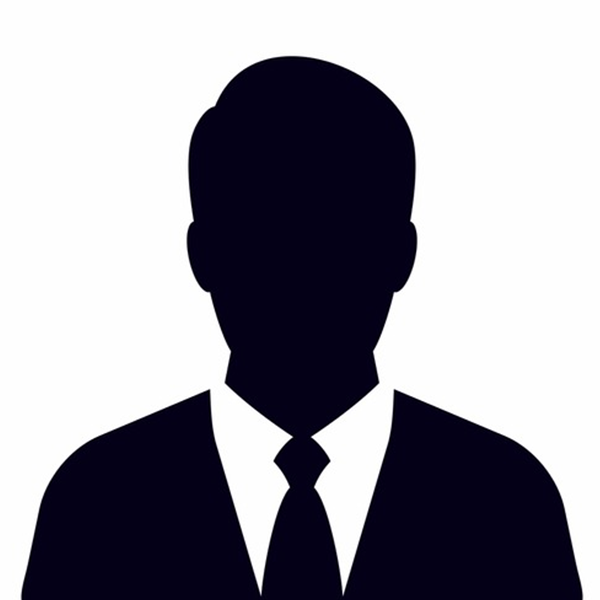
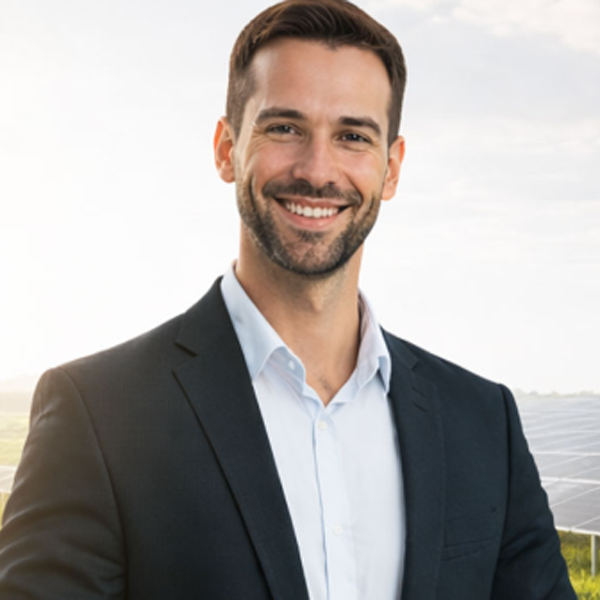
updations

diff --git a/public/css/sass/developer/_anas.scss b/public/css/sass/developer/_anas.scss
@@ -8,7 +8,8 @@ html,body {
 }
 
 h3 {
-    font-weight: 500;
+    font-size: 25px;
+    font-weight: 700;
     color: $color-primary;
 }
 
@@ -71,10 +72,9 @@ margin-bottom: 40px;
     text-align: center;
     background-color: #ffffff;
     border-radius: 15px;
-    padding: 20px;
+    padding: 20px 10px;
     box-shadow: 0 4px 10px rgba(0, 0, 0, 0.1);
     transition: transform 0.3s ease-in-out;
-    height: 100%;
     margin-top: 15px;
 }
 
@@ -86,7 +86,6 @@ margin-bottom: 40px;
     font-size: 35px;
     font-weight: 800;
     color: #3e3e3e;
-    margin-bottom: 10px;
 }
 
 .counter p {
@@ -170,6 +169,83 @@ margin-bottom: 40px;
     }
 }
 
+//////////////////////// HOME INDUSTRIES CSS ////////////////////////
+
+.hm-industries-wrapper {
+    background-image: url('../img/industry-bg-img.jpg');
+    background-position: center;
+    background-repeat: no-repeat;
+    background-size: cover;
+    background-blend-mode: overlay;
+    background-color: #ffffffb0;
+}
+
+
+
+.home-industry .item {
+    position: relative;
+    height: 400px; /* Fixed height for consistency */
+    border-radius: 30px; /* Rounded corners for a more unique card shape */
+    background-size: cover;
+    background-position: center;
+    transition: transform 0.3s ease-in-out, box-shadow 0.3s ease; /* Smooth scale and shadow effects */
+    overflow: hidden;
+}
+
+/* Specific background images for each item */
+.home-industry .item.industry-box-1 {
+    background-image: url('../img/industry1-img.jpg');
+}
+
+.home-industry .item.industry-box-2 {
+    background-image: url('../img/industry2-img.jpg');
+}
+
+.home-industry .item.industry-box-3 {
+    background-image: url('../img/industry3-img.jpg');
+}
+
+.home-industry .item:hover {
+   
+    box-shadow: 0 25px 60px rgba(0, 0, 0, 0.3); /* Enhance the shadow on hover */
+}
+
+.home-industry .item .txt-box {
+    position: absolute;
+    bottom: 40px;
+    left: 30px;
+    right: 30px;
+    background-color: rgba(39, 66, 145, 0.8);
+    padding: 26px 20px;
+    border-radius: 15px;
+    opacity: 1;
+    
+   
+}
+
+
+
+.home-industry .item .txt-box h3 {
+    font-size: 25px;
+    font-weight: 600;
+    line-height: 1.3;
+    text-transform: uppercase;
+    color: #fff;
+    margin-bottom: 0;
+    text-align: center;
+    
+}
+
+/* Optional: Add a hover animation for better interactivity */
+.home-industry .item:hover .txt-box h3 {
+    color: #f8f8f8; /* Slight text color change on hover */
+}
+
+.home-industry .owl-carousel .owl-nav, .home-industry .owl-carousel .owl-dots {
+    display: none; /* Hide default navigation */
+}
+
+
 //////////////////////// HOME PRODUCTS CSS ////////////////////////
 
 .hm-product-wrap  {
@@ -188,6 +264,7 @@ margin-bottom: 40px;
 
     h3 {
         font-size: 25px;
+        font-weight: 500;
     }
 }
 
@@ -368,6 +445,7 @@ margin-bottom: 40px;
 .test-name-box {
     display: flex;
     align-items: center;
+
 }
 
 
@@ -396,6 +474,7 @@ margin-bottom: 40px;
 .checked {
   color: orange;
 }
+
 
 ///////////////////////////////////////////////////// ABOUT US PAGE /////////////////////////////////////////////////
 

diff --git a/public/css/style.css b/public/css/style.css
@@ -986,7 +986,8 @@ html, body {
 }
 
 h3 {
-  font-weight: 500;
+  font-size: 25px;
+  font-weight: 700;
   color: #274291;
 }
 
@@ -1041,10 +1042,9 @@ h4 {
   text-align: center;
   background-color: #ffffff;
   border-radius: 15px;
-  padding: 20px;
+  padding: 20px 10px;
   box-shadow: 0 4px 10px rgba(0, 0, 0, 0.1);
   transition: transform 0.3s ease-in-out;
-  height: 100%;
   margin-top: 15px;
 }
 
@@ -1056,7 +1056,6 @@ h4 {
   font-size: 35px;
   font-weight: 800;
   color: #3e3e3e;
-  margin-bottom: 10px;
 }
 
 .counter p {
@@ -1124,6 +1123,72 @@ h4 {
   padding: 20px;
 }
 
+.hm-industries-wrapper {
+  background-image: url("../img/industry-bg-img.jpg");
+  background-position: center;
+  background-repeat: no-repeat;
+  background-size: cover;
+  background-blend-mode: overlay;
+  background-color: rgba(255, 255, 255, 0.6901960784);
+}
+
+.home-industry .item {
+  position: relative;
+  height: 400px; /* Fixed height for consistency */
+  border-radius: 30px; /* Rounded corners for a more unique card shape */
+  background-size: cover;
+  background-position: center;
+  transition: transform 0.3s ease-in-out, box-shadow 0.3s ease; /* Smooth scale and shadow effects */
+  overflow: hidden;
+}
+
+/* Specific background images for each item */
+.home-industry .item.industry-box-1 {
+  background-image: url("../img/industry1-img.jpg");
+}
+
+.home-industry .item.industry-box-2 {
+  background-image: url("../img/industry2-img.jpg");
+}
+
+.home-industry .item.industry-box-3 {
+  background-image: url("../img/industry3-img.jpg");
+}
+
+.home-industry .item:hover {
+  box-shadow: 0 25px 60px rgba(0, 0, 0, 0.3); /* Enhance the shadow on hover */
+}
+
+.home-industry .item .txt-box {
+  position: absolute;
+  bottom: 40px;
+  left: 30px;
+  right: 30px;
+  background-color: rgba(39, 66, 145, 0.8);
+  padding: 26px 20px;
+  border-radius: 15px;
+  opacity: 1;
+}
+
+.home-industry .item .txt-box h3 {
+  font-size: 25px;
+  font-weight: 600;
+  line-height: 1.3;
+  text-transform: uppercase;
+  color: #fff;
+  margin-bottom: 0;
+  text-align: center;
+}
+
+/* Optional: Add a hover animation for better interactivity */
+.home-industry .item:hover .txt-box h3 {
+  color: #f8f8f8; /* Slight text color change on hover */
+}
+
+.home-industry .owl-carousel .owl-nav, .home-industry .owl-carousel .owl-dots {
+  display: none; /* Hide default navigation */
+}
+
 .hm-product-wrap {
   background-color: #f0f2f7;
 }
@@ -1139,6 +1204,7 @@ h4 {
 }
 .hm-product-wrap .pro-box h3 {
   font-size: 25px;
+  font-weight: 500;
 }
 
 .hm-mission-wrapper {
@@ -1947,7 +2013,7 @@ li i {
   line-height: 50px;
   text-transform: capitalize;
   letter-spacing: 1.2px;
-  font-size: 17px;
+  font-size: 16px;
 }
 
 .dark .navbar {

diff --git a/public/css/sass/layout/_navbars.scss b/public/css/sass/layout/_navbars.scss
@@ -123,7 +123,7 @@
         line-height: 50px;
         text-transform: capitalize;
         letter-spacing: 1.2px;
-        font-size: 17px;
+        font-size: 16px;
 	}
 }
 .dark .navbar {

diff --git a/public/js/main.js b/public/js/main.js
@@ -57,7 +57,7 @@ $(document).ready(function () {
 
 
 
-$('.home-products').owlCarousel({
+$('.home-industry').owlCarousel({
     loop:true,
     margin:10,
     nav:true,

diff --git a/public/index.php b/public/index.php
@@ -63,7 +63,7 @@
                                     <div class="col-lg-4 col-md-4 col-m-12">
                                         <div class="counter-item">
                                             <div class="counter" id="installedCapacity">0</div>
-                                            <p>Installed Capacity</p>
+                                            <p>Installed <br>Capacity</p>
                                         </div>
                                     </div>
                                     <div class="col-lg-4 col-md-4 col-m-12">
@@ -124,6 +124,38 @@
                     </div>
                 </div>
             </div>
+
+<!-- ///////////////////////////// HOME INDUSTRIES SECTION ///////////////////////////// -->
+
+            <div class="hm-industries-wrapper section-entry">
+    <div class="container">
+        <div class="row">
+            <div class="col-lg-12 col-md-12 mb-4">
+                <h3>Industries We Serve</h3>
+                <p>We provide cutting-edge solutions to a diverse range of industries. Our expertise spans various fields, ensuring that each sector receives tailored support to meet its unique challenges. Whether it's sustainable energy, healthcare, finance, or technology, we are dedicated to driving success and innovation wherever we operate.</p>
+            </div>
+            <div class="col-lg-12 col-md-12">
+                <div class="home-industry owl-carousel owl-theme">
+                    <div class="item industry-box-1">
+                        <div class="txt-box">
+                            <h3>Automotive Industries</h3>
+                        </div>
+                    </div>
+                    <div class="item industry-box-2">
+                        <div class="txt-box">
+                            <h3>Residential & Commercial</h3>
+                        </div>
+                    </div>
+                    <div class="item industry-box-3">
+                        <div class="txt-box">
+                            <h3>Agriculture & Warehousing</h3>
+                        </div>
+                    </div>
+                </div>
+            </div>
+        </div>
+    </div>
+</div>
 
 
 <!-- ///////////////////////////// HOME PRODUCTS SECTION ///////////////////////////// -->
@@ -342,7 +374,7 @@
                                             reliable.”
                                         </p>
                                         <div class="name-txt-box">
-                                            <h6><span>Ramesh Chauhan</span><br>Our Client</h6>
+                                            <h6><span>Ramesh Chauhan</span><br>Happy Client</h6>
                                         </div>
                                     </div>
                                 </div>
@@ -363,7 +395,7 @@
                                             responsive. Highly recommended for home solar users!”
                                         </p>
                                         <div class="name-txt-box">
-                                            <h6><span>Priya Mehta</span><br>Our Client</h6>
+                                            <h6><span>Priya Mehta</span><br>Happy Client</h6>
                                         </div>
                                     </div>
                                 </div>
